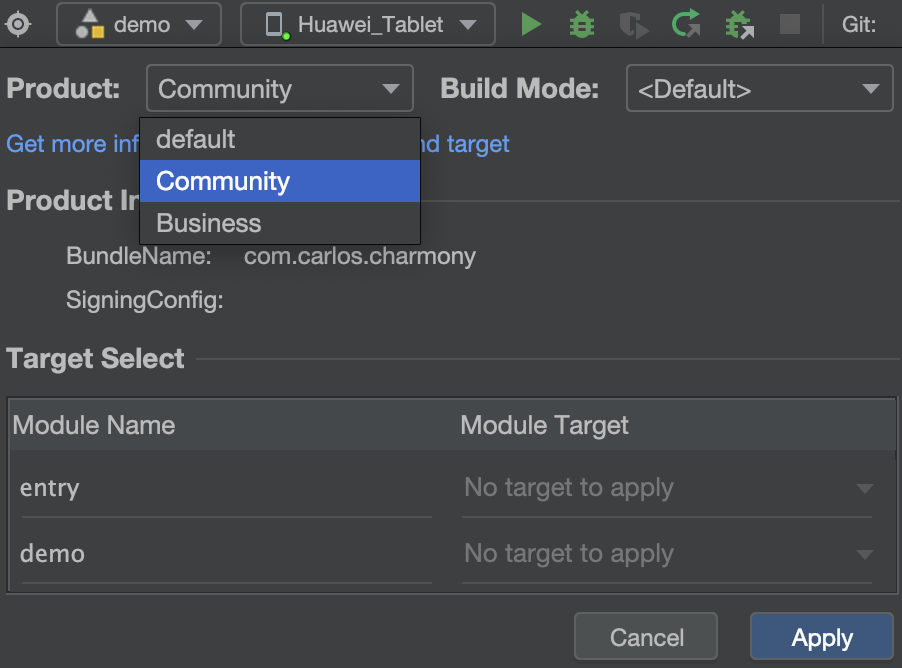
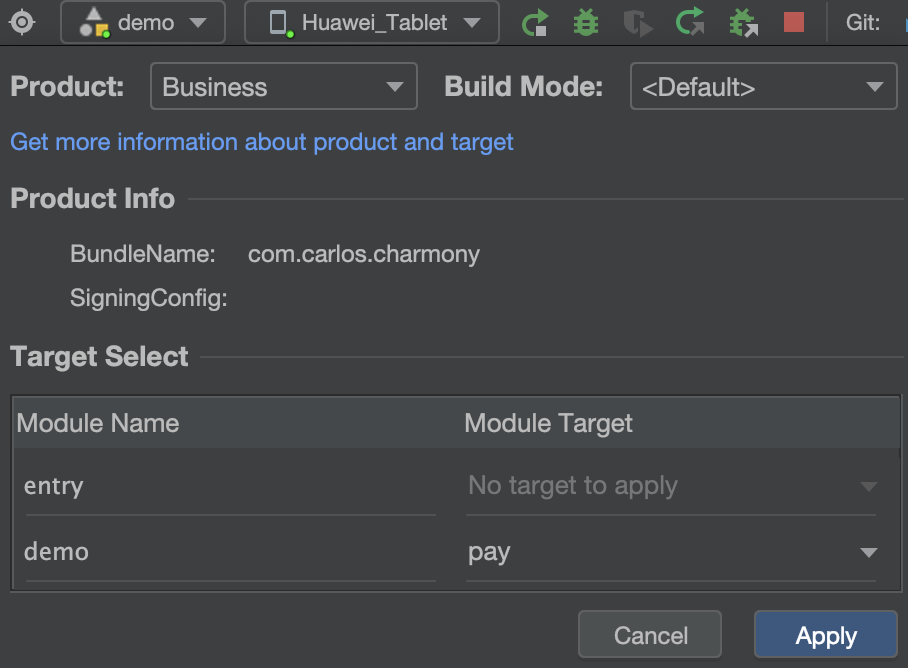
Update demo.

diff --git a/demo/README.md b/demo/README.md
@@ -83,13 +83,30 @@ product：对应App的多目标产物。一个HarmonyOS工程的构建产物为A
 
 
 ### 更多实践
-#### 代码资源目录
+#### 自定义代码资源目录及自定义参数
 ```
     {
       "name": "free",
       "runtimeOS": "HarmonyOS",
+      "config": {
+        "buildOption": {
+          "arkOptions": {
+            "buildProfileFields": {
+              "buildData": "free"
+            }
+          }
+        }
+      },
       "source": {
-        "sourceRoots": ["./src/free"]
+        "sourceRoots": [
+          "./src/free"
+        ]
+      },
+      "resource": {
+        "directories": [
+          "./src/main/resources",
+          "./src/main/resource_free"
+        ]
       },
       "output": {
         "artifactName": "free"
@@ -98,8 +115,25 @@ product：对应App的多目标产物。一个HarmonyOS工程的构建产物为A
     {
       "name": "pay",
       "runtimeOS": "OpenHarmony",
+      "config": {
+        "buildOption": {
+          "arkOptions": {
+            "buildProfileFields": {
+              "buildData": "pay"
+            }
+          }
+        }
+      },
       "source": {
-        "sourceRoots": ["./src/pay"]
+        "sourceRoots": [
+          "./src/pay"
+        ]
+      },
+      "resource": {
+        "directories": [
+          "./src/main/resources",
+          "./src/main/resource_pay"
+        ]
       },
       "output": {
         "artifactName": "pay"
